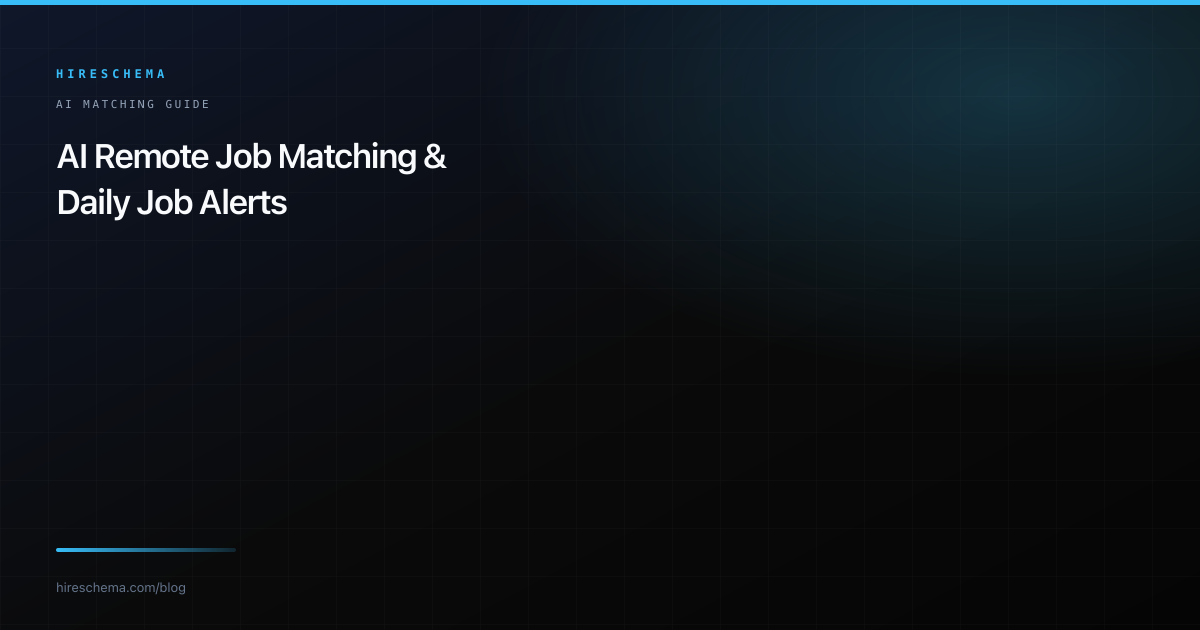
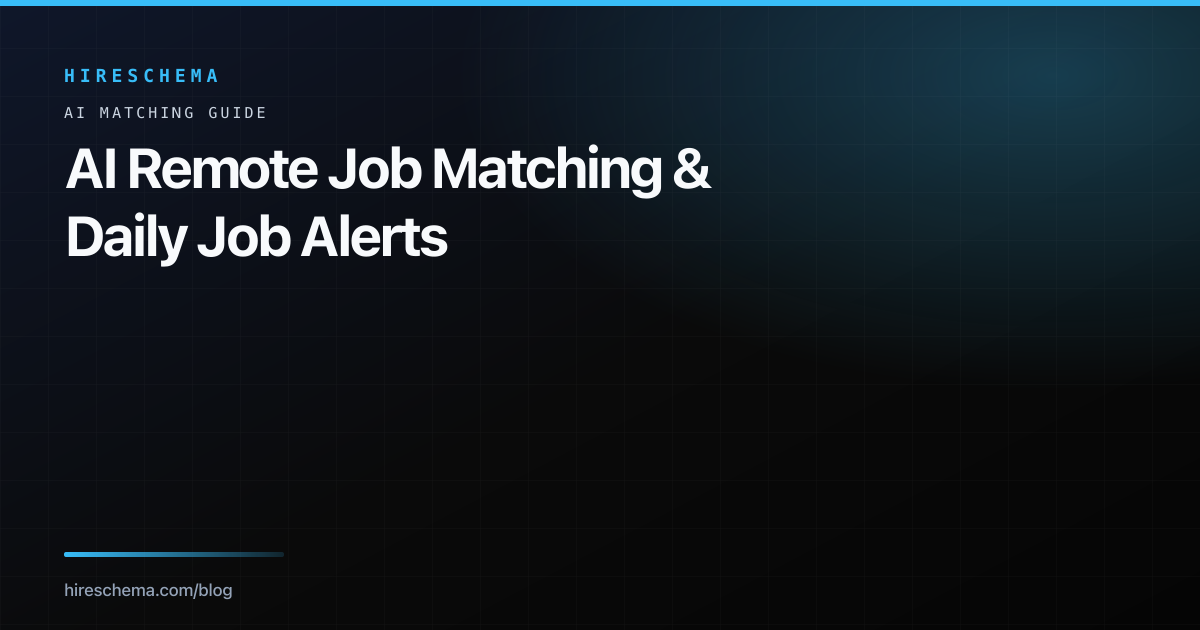
Fix empty landing blog section and enlarge readable blog cover typography.
Re-run scroll reveals when async posts load, add API fallback guides, and scale up banner text on generated covers and OG image.

Changed region(s): [[0.0308, 0.2111, 0.6167, 0.4222], [0.0617, 0.8444, 0.2467, 0.9651], [0.0308, 0.0905, 0.2158, 0.181]]

diff --git a/src/lib/landingBlogPosts.ts b/src/lib/landingBlogPosts.ts
@@ -1,0 +1,64 @@
+/** Summaries for the landing page blog strip — also used when /api/blog is unavailable. */
+export type LandingBlogPost = {
+  slug: string;
+  title: string;
+  excerpt: string;
+  publishedAt: string;
+  category: string;
+  clusterId?: string;
+};
+
+/** Curated fallback when the blog API fails (dev offline, deploy misconfig, etc.). */
+export const LANDING_BLOG_FALLBACK: LandingBlogPost[] = [
+  {
+    slug: '2026-06-06-how-ai-remote-job-matching-actually-works-and-how-to-use-it',
+    title: 'How AI Remote Job Matching Actually Works (And How to Use It to Your Advantage)',
+    excerpt:
+      'AI job matching works by converting your profile and every job posting into structured data, then scoring how well they align across skills, seniority, salary, and timezone…',
+    publishedAt: '2026-06-06T08:24:09.026Z',
+    category: 'Remote Work',
+    clusterId: 'ai-job-matching',
+  },
+  {
+    slug: '2026-06-05-how-to-spot-remote-job-scams-and-low-quality-listings-at-sca',
+    title: 'How to Spot Remote Job Scams and Low-Quality Listings at Scale',
+    excerpt:
+      'Remote job scams cost job seekers hundreds of millions annually. Learn the red flags recruiters use to filter bad listings before you apply…',
+    publishedAt: '2026-06-05T08:24:09.026Z',
+    category: 'Remote Work',
+    clusterId: 'remote-job-search',
+  },
+  {
+    slug: '2026-05-28-how-to-find-remote-jobs-faster',
+    title: 'How to Find Remote Jobs Faster: A Recruiter-Approved Playbook',
+    excerpt:
+      'The fastest way to find remote jobs is to combine targeted alerts, recruiter-visible profiles, and a weekly application rhythm focused on high-fit roles…',
+    publishedAt: '2026-05-28T08:00:00.000Z',
+    category: 'Job Search',
+    clusterId: 'remote-job-search',
+  },
+];
+
+export async function fetchLandingBlogPosts(limit = 3): Promise<LandingBlogPost[]> {
+  try {
+    const res = await fetch(`/api/blog?limit=${limit}`);
+    const text = await res.text();
+    let data: { posts?: LandingBlogPost[]; error?: string } = {};
+    try {
+      data = text ? JSON.parse(text) : {};
+    } catch {
+      throw new Error('Blog API returned an invalid response.');
+    }
+    const contentType = res.headers.get('content-type') ?? '';
+    if (!contentType.includes('application/json')) {
+      throw new Error('Blog API is misconfigured (expected JSON).');
+    }
+    if (!res.ok || data.error) {
+      throw new Error(data.error || `Blog API error (${res.status})`);
+    }
+    const posts = (data.posts ?? []).slice(0, limit);
+    return posts.length > 0 ? posts : LANDING_BLOG_FALLBACK.slice(0, limit);
+  } catch {
+    return LANDING_BLOG_FALLBACK.slice(0, limit);
+  }
+}

diff --git a/src/lib/__tests__/landingBlogPosts.test.ts b/src/lib/__tests__/landingBlogPosts.test.ts
@@ -1,0 +1,41 @@
+import { describe, expect, it, vi, afterEach } from 'vitest';
+import { fetchLandingBlogPosts, LANDING_BLOG_FALLBACK } from '../landingBlogPosts';
+
+describe('fetchLandingBlogPosts', () => {
+  afterEach(() => {
+    vi.unstubAllGlobals();
+  });
+
+  it('returns API posts when available', async () => {
+    vi.stubGlobal(
+      'fetch',
+      vi.fn(async () => ({
+        ok: true,
+        headers: { get: () => 'application/json' },
+        text: async () =>
+          JSON.stringify({
+            posts: [
+              {
+                slug: 'test-post',
+                title: 'Test Post',
+                excerpt: 'Excerpt',
+                publishedAt: '2026-06-01T00:00:00.000Z',
+                category: 'Remote Work',
+              },
+            ],
+          }),
+      }))
+    );
+
+    const posts = await fetchLandingBlogPosts(3);
+    expect(posts).toHaveLength(1);
+    expect(posts[0].slug).toBe('test-post');
+  });
+
+  it('falls back when the API fails', async () => {
+    vi.stubGlobal('fetch', vi.fn(async () => ({ ok: false, status: 500 })));
+
+    const posts = await fetchLandingBlogPosts(3);
+    expect(posts).toEqual(LANDING_BLOG_FALLBACK.slice(0, 3));
+  });
+});

diff --git a/src/pages/LandingPage.tsx b/src/pages/LandingPage.tsx
@@ -6,6 +6,7 @@ import { HireschemaLogo } from '../components/brand/HireschemaLogo';
 import { SeoHead } from '../components/seo/SeoHead';
 import { SITE_URL, SITE_STATUS, DEFAULT_OG_IMAGE, HOME_FAQ, HOME_KEYWORDS, buildBreadcrumbSchema, buildFaqPageSchema, buildOrganizationSchema, buildSoftwareApplicationSchema, buildWebSiteSchema } from '../lib/siteSeo';
 import { blogCardEyebrow, blogCoverUrl, clusterAccent } from '../lib/blogClusters';
+import { fetchLandingBlogPosts, type LandingBlogPost } from '../lib/landingBlogPosts';
 import { DAILY_MATCH_LIMIT } from '../lib/planLimits';
 import { PRO_ANNUAL_SAVINGS_PERCENT, PRO_ANNUAL_USD, PRO_MONTHLY_USD } from '../lib/pricing';
 
@@ -577,7 +578,7 @@ const LP_STYLE = `
     background:oklch(22% 0.02 260); border-bottom:1px solid var(--lp-border);
   }
   .lp-blog-cover img {
-    display:block; width:100%; height:100%; object-fit:cover;
+    display:block; width:100%; height:100%; object-fit:cover; object-position:left center;
     transition:transform .32s ease;
   }
   .lp-blog-card:hover .lp-blog-cover img { transform:scale(1.03); }
@@ -608,15 +609,6 @@ const LP_STYLE = `
     .lp-jcard-inner { transition:none !important; }
   }
 `;
-
-interface LandingBlogPost {
-  slug: string;
-  title: string;
-  excerpt: string;
-  publishedAt: string;
-  category: string;
-  clusterId?: string;
-}
 
 const MARQUEE_ITEMS = [
   'Remote · Worldwide', '50+ Resume Signals', 'AI Match Scoring', 'ATS Integrity Checks',
@@ -758,10 +750,13 @@ export function LandingPage() {
   }, []);
 
   useEffect(() => {
-    fetch('/api/blog?limit=3')
-      .then((r) => r.json())
-      .then((data) => setBlogPosts((data.posts ?? []).slice(0, 3)))
-      .catch(() => setBlogPosts([]));
+    let cancelled = false;
+    void fetchLandingBlogPosts(3).then((posts) => {
+      if (!cancelled) setBlogPosts(posts);
+    });
+    return () => {
+      cancelled = true;
+    };
   }, []);
 
   // inject styles once
@@ -790,7 +785,7 @@ export function LandingPage() {
     return () => window.removeEventListener('scroll', onScroll);
   }, []);
 
-  // scroll reveals + stat counters
+  // scroll reveals + stat counters — re-run when blog cards mount async
   useEffect(() => {
     const io = new IntersectionObserver((entries) => {
       entries.forEach(e => {
@@ -798,7 +793,6 @@ export function LandingPage() {
         e.target.classList.add('lp-revealed');
 
         // counter animation
-        const numEl = e.target.querySelector<HTMLElement>('[data-count]') || (e.target.hasAttribute('data-count') ? e.target as HTMLElement : null);
         const countEls = e.target.querySelectorAll<HTMLElement>('[data-count]');
         countEls.forEach(el => animateCount(el));
 
@@ -806,10 +800,12 @@ export function LandingPage() {
       });
     }, { threshold: 0.12, rootMargin: '0px 0px -40px 0px' });
 
-    document.querySelectorAll('.lp-reveal,.lp-reveal-l,.lp-reveal-r,.lp-reveal-s,.lp-stat,.lp-step').forEach(el => io.observe(el));
+    document
+      .querySelectorAll('.lp-reveal:not(.lp-revealed),.lp-reveal-l:not(.lp-revealed),.lp-reveal-r:not(.lp-revealed),.lp-reveal-s:not(.lp-revealed),.lp-stat:not(.lp-revealed),.lp-step:not(.lp-revealed)')
+      .forEach(el => io.observe(el));
 
     return () => io.disconnect();
-  }, []);
+  }, [blogPosts.length]);
 
   // feature item scroll tracking — scroll-based for reliability
   useEffect(() => {

diff --git a/src/server/contentGrowth/coverImage.ts b/src/server/contentGrowth/coverImage.ts
@@ -28,7 +28,7 @@ function escapeXml(text: string): string {
     .replace(/"/g, '&quot;');
 }
 
-function wrapTitle(title: string, maxCharsPerLine = 26): string[] {
+function wrapTitle(title: string, maxCharsPerLine = 28): string[] {
   const words = title.split(/\s+/);
   const lines: string[] = [];
   let current = '';
@@ -42,16 +42,24 @@ function wrapTitle(title: string, maxCharsPerLine = 26): string[] {
     }
   }
   if (current) lines.push(current);
-  return lines.slice(0, 3);
+  return lines.slice(0, 4);
+}
+
+function titleTypography(lineCount: number): { fontSize: number; lineHeight: number; startY: number } {
+  if (lineCount <= 1) return { fontSize: 68, lineHeight: 78, startY: 210 };
+  if (lineCount === 2) return { fontSize: 56, lineHeight: 68, startY: 188 };
+  if (lineCount === 3) return { fontSize: 48, lineHeight: 58, startY: 172 };
+  return { fontSize: 42, lineHeight: 52, startY: 158 };
 }
 
 export function generateCoverSvg(title: string, clusterId: string): string {
   const style = CLUSTER_STYLES[clusterId] ?? CLUSTER_STYLES['remote-job-search'];
   const lines = wrapTitle(title);
+  const { fontSize, lineHeight, startY } = titleTypography(lines.length);
   const lineElements = lines
     .map(
       (line, i) =>
-        `<text x="56" y="${168 + i * 46}" font-family="system-ui, -apple-system, sans-serif" font-size="34" font-weight="600" fill="#f8fafc" letter-spacing="-0.02em">${escapeXml(line)}</text>`
+        `<text x="64" y="${startY + i * lineHeight}" font-family="system-ui, -apple-system, BlinkMacSystemFont, sans-serif" font-size="${fontSize}" font-weight="650" fill="#f8fafc" letter-spacing="-0.025em">${escapeXml(line)}</text>`
     )
     .join('\n    ');
 
@@ -66,8 +74,8 @@ export function generateCoverSvg(title: string, clusterId: string): string {
       <stop offset="0%" stop-color="${style.accent}"/>
       <stop offset="100%" stop-color="${style.accent}" stop-opacity="0.15"/>
     </linearGradient>
-    <radialGradient id="glow" cx="85%" cy="15%" r="45%">
-      <stop offset="0%" stop-color="${style.accent}" stop-opacity="0.22"/>
+    <radialGradient id="glow" cx="88%" cy="12%" r="50%">
+      <stop offset="0%" stop-color="${style.accent}" stop-opacity="0.28"/>
       <stop offset="100%" stop-color="${style.accent}" stop-opacity="0"/>
     </radialGradient>
     <pattern id="grid" width="48" height="48" patternUnits="userSpaceOnUse">
@@ -77,12 +85,12 @@ export function generateCoverSvg(title: string, clusterId: string): string {
   <rect width="1200" height="630" fill="url(#bg)"/>
   <rect width="1200" height="630" fill="url(#glow)"/>
   <rect width="1200" height="630" fill="url(#grid)"/>
-  <rect x="0" y="0" width="1200" height="5" fill="${style.accent}"/>
-  <text x="56" y="78" font-family="ui-monospace, monospace" font-size="12" font-weight="700" fill="${style.accent}" letter-spacing="4">HIRESCHEMA</text>
-  <text x="56" y="108" font-family="ui-monospace, monospace" font-size="11" fill="#94a3b8" letter-spacing="2.5">${escapeXml(style.label.toUpperCase())} GUIDE</text>
+  <rect x="0" y="0" width="1200" height="6" fill="${style.accent}"/>
+  <text x="64" y="82" font-family="ui-monospace, SFMono-Regular, Menlo, monospace" font-size="18" font-weight="700" fill="${style.accent}" letter-spacing="5">HIRESCHEMA</text>
+  <text x="64" y="118" font-family="ui-monospace, SFMono-Regular, Menlo, monospace" font-size="15" fill="#cbd5e1" letter-spacing="3">${escapeXml(style.label.toUpperCase())} GUIDE</text>
     ${lineElements}
-  <rect x="56" y="548" width="180" height="4" fill="url(#accent)" rx="2"/>
-  <text x="56" y="592" font-family="system-ui, sans-serif" font-size="13" fill="#64748b">hireschema.com/blog</text>
+  <rect x="64" y="552" width="220" height="5" fill="url(#accent)" rx="2"/>
+  <text x="64" y="596" font-family="system-ui, -apple-system, sans-serif" font-size="17" font-weight="500" fill="#94a3b8">hireschema.com/blog</text>
 </svg>`;
 }
 

diff --git a/src/server/contentGrowth/__tests__/coverImage.test.ts b/src/server/contentGrowth/__tests__/coverImage.test.ts
@@ -1,0 +1,19 @@
+import { describe, expect, it } from 'vitest';
+import { generateCoverSvg } from '../coverImage';
+
+describe('generateCoverSvg', () => {
+  it('uses larger title typography for short titles', () => {
+    const svg = generateCoverSvg('Remote Job Search Tips', 'remote-job-search');
+    expect(svg).toContain('font-size="68"');
+    expect(svg).toContain('font-size="18"');
+  });
+
+  it('scales down typography for long multi-line titles', () => {
+    const svg = generateCoverSvg(
+      'How AI Remote Job Matching Actually Works (And How to Use It to Your Advantage)',
+      'ai-job-matching'
+    );
+    expect(svg).toContain('font-size="48"');
+    expect(svg).toMatch(/font-size="(42|48|56|68)"/);
+  });
+});

diff --git a/src/styles/blogLanding.css b/src/styles/blogLanding.css
@@ -220,7 +220,7 @@
   width: 100%;
   height: 100%;
   object-fit: cover;
-  object-position: center;
+  object-position: left center;
   transition: transform 320ms ease;
 }
 
@@ -373,6 +373,7 @@
   height: auto;
   aspect-ratio: 1200 / 630;
   object-fit: cover;
+  object-position: left center;
 }
 
 .blog-lp-root .blog-article {